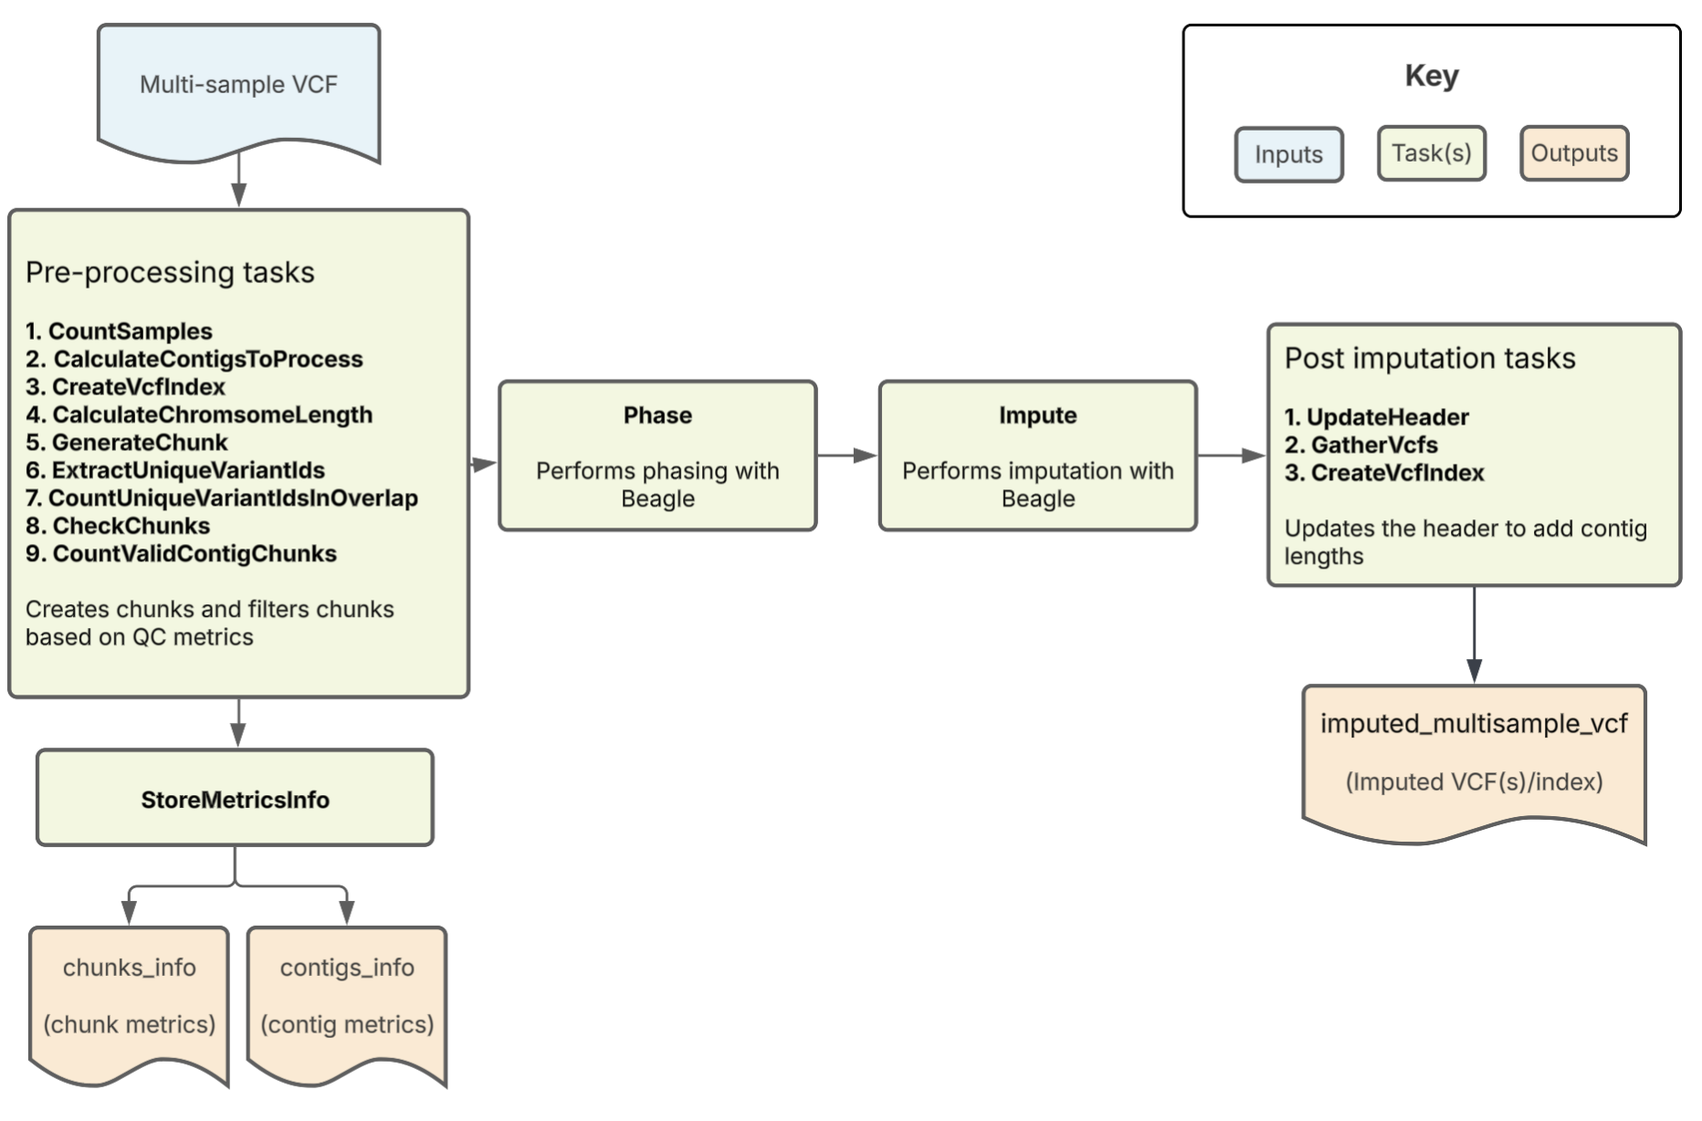
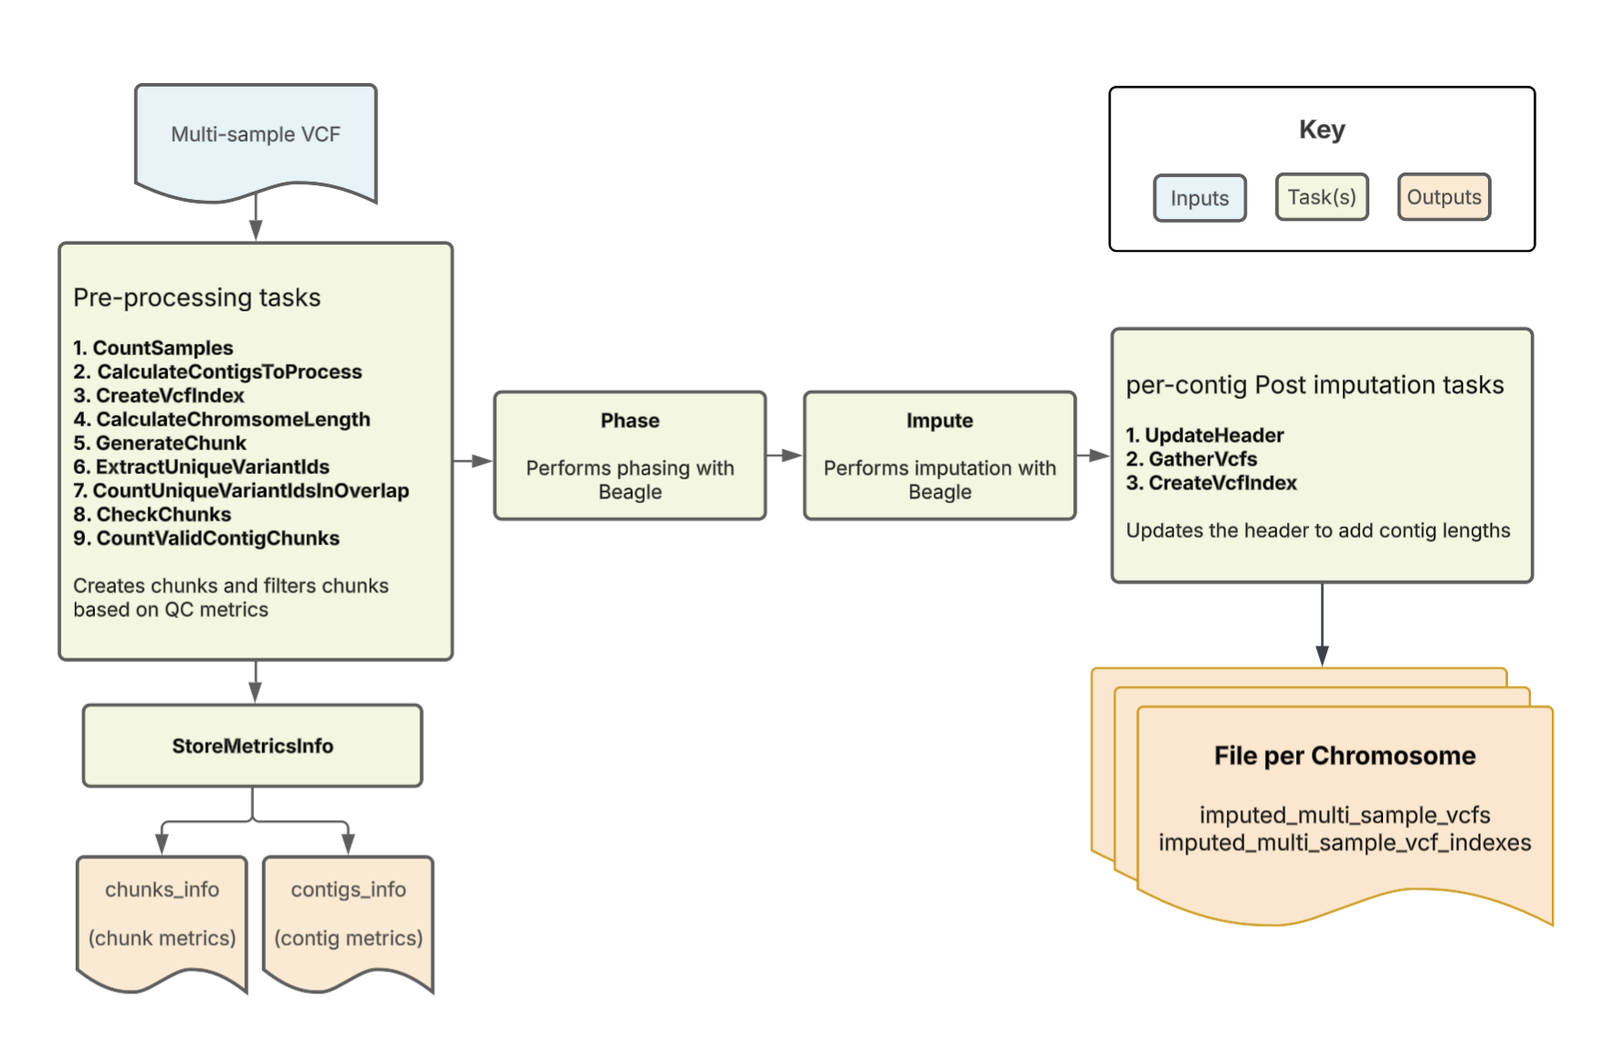
TSPS-1209 Glimpse2LowPassImputation returns single vcf per chr (Array[File]) (#1973)
* low pass imputation returns single vcf per chr

* note for future version update

* changelog and version update

* Updated pipeline_versions.txt with all pipeline version information

* fix variable names in changelog

* one more changelog update

* update docs

* make corresponding changes for array imputation (forgot to do earlier)

* rename final output files

* Updated pipeline_versions.txt with all pipeline version information

* Updated pipeline_versions.txt with all pipeline version information

* revert to single qc output

* update changelog and readme to reflect single file qc_metrics output

* update pipeline images

* Updated pipeline_versions.txt with all pipeline version information

---------

diff --git a/website/docs/Pipelines/Glimpse2LowPassImputation_Pipeline/README.md b/website/docs/Pipelines/Glimpse2LowPassImputation_Pipeline/README.md
@@ -10,14 +10,14 @@ slug: /Pipelines/Glimpse2LowpassImputation_Pipeline/README
 | See [changelog](https://github.com/broadinstitute/warp/blob/develop/pipelines/wdl/glimpse/low_pass_imputation/Glimpse2LowPassImputation.changelog.md) for version information. | See changelog | Terra Scientific Pipeline Services | Please [file an issue in WARP](https://github.com/broadinstitute/warp/issues). | |
 
 ## Introduction to the GLIMPSE2 Low-Pass Imputation pipeline
-The GLIMPSE2 Low-Pass Imputation pipeline imputes missing genotypes from a list of low-pass CRAM/CRAI files (or a sample manifest pointing to GCS file paths) using a large genomic reference panel. It uses GLIMPSE2 as the imputation tool. Overall, the pipeline splits samples into batches, performs variant calling and imputation on each batch across genomic chunks, and merges the results into a final multi-sample VCF. It outputs the imputed VCF along with key imputation metrics.
+The GLIMPSE2 Low-Pass Imputation pipeline imputes missing genotypes from a list of low-pass CRAM/CRAI files (or a sample manifest pointing to GCS file paths) using a large genomic reference panel. It uses GLIMPSE2 as the imputation tool. Overall, the pipeline splits samples into batches, performs variant calling and imputation on each batch across genomic chunks, and merges the results into a multi-sample VCF per contig. It outputs one imputed VCF per contig, along with key imputation metrics.
 
 ## GLIMPSE2 Low-Pass Imputation Summary
 
 The `Glimpse2LowPassImputation` workflow is a WDL-based pipeline for low-pass whole genome imputation using [GLIMPSE2](https://odelaneau.github.io/GLIMPSE/).  
 This top-level workflow is now a gateway that scales to large cohorts by splitting samples into batches, running a per-batch imputation subworkflow, then merging batch outputs back into cohort-level results.
 
-The workflow processes each requested contig independently, imputes each sample batch against reference-defined chunks, ligates chunk outputs per batch/contig, merges sample columns across batches, recomputes AF/INFO annotations, and gathers contig outputs into final genome-wide files.
+The workflow processes each requested contig independently, imputes each sample batch against reference-defined chunks, ligates chunk outputs per batch/contig, merges sample columns across batches, recomputes AF/INFO annotations, and returns contig-level file outputs.
 
 ![](pipeline.png)
 
@@ -34,7 +34,7 @@ The workflow processes each requested contig independently, imputes each sample 
 | Algorithms              | `bcftools` mpileup/call/norm/merge + GLIMPSE2 phase/ligate + post-merge re-annotation                              | Task commands in batch and task WDLs                                     |
 | Quality control         | Sample QC metrics and optional coverage-metrics aggregation                                                        | `CollectQCMetrics`, `CombineCoverageMetrics`                             |
 | Data input file format  | CRAM/CRAI arrays with sample IDs                                                                                   | Workflow input block                                                     |
-| Data output file format | Imputed VCFs, indexes, md5s, and QC/coverage metric tables                                                         | Workflow outputs                                                         |
+| Data output file format | Per-contig imputed VCFs, indexes, md5s, and QC/coverage metric tables                                              | Workflow outputs                                                         |
 | Containers              | GATK, GLIMPSE2, bcftools/samtools suite, Hail, Python, Ubuntu                                                      | Runtime blocks                                                           |
 | Resource optimization   | Parallelization by sample batch, contig, and reference shard                                                       | Workflow architecture                                                    |
 
@@ -78,31 +78,23 @@ The top-level workflow orchestrates batching, per-batch imputation, and cohort-l
 | `MergeContigVcfs` (`MergeSampleChunksVcfsWithPaste`) | Merge sample columns across batch VCFs for one contig                   | Array of batch VCFs for contig                                                                         | Creates full-cohort contig VCF with aligned site lists                                          |
 | `RecomputeAndAnnotate`                               | Recompute AF/INFO across merged cohort and write updated contig VCF     | Merged contig VCF + extracted annotations                                                              | Restores cohort-correct annotations after paste-based merge                                     |
 | `FilterVcfByInfo`                                    | Filter variants below the INFO score threshold (optional)               | Re-aanotated VCF; only runs when `info_filter_for_inclusion` is supplied                               | Removes low-quality imputed variants from the final VCF                                         |
-| `SelectContigVariants`                               | Create variants-only contig VCF                                         | Re-annotated contig VCF                                                                                | Removes homozygous-reference-only records                                                       |
-| `UpdateHeaderVariants`                               | Update variants-only VCF header with reference info                     | Filtered VCF or re-annotated VCF                                                                       | Updates VCF headers with reference dictionary information and optionally adds pipeline metadata |
-| `CreateContigHomRefVcf`                              | Create hom-ref-sites-only contig VCF                                    | Re-annotated contig VCF                                                                                | Keeps homozygous-reference-only sites                                                           |
-| `UpdateHeaderHomRefOnly`                             | Update hom ref sites only VCF header with reference info                | Filtered VCF or re-annotated VCF                                                                       | Updates VCF headers with reference dictionary information and optionally adds pipeline metadata |
+| `UpdateHeader`                                       | Update contig VCF header with reference info                            | Filtered VCF (if `info_filter_for_inclusion` supplied) or re-annotated contig VCF                      | Updates VCF headers with reference dictionary information and optionally adds pipeline metadata |
 | `MergeBatchCoverageMetrics`                          | Combine optional coverage metric files across batches                   | `RunBatch.coverage_metrics`                                                                            | Produces aggregated coverage table when metrics exist                                           |
-| `GatherVcfsNoIndex`                                  | Gather contig variant VCFs into genome-wide variant VCF                 | Variant-only contig VCFs                                                                               | Produces final genome-wide variant VCF                                                          |
-| `CreateVcfIndexAndMd5`                               | Index and checksum final variant VCF                                    | Filtered VCF (if `info_filter_for_inclusion` supplied) or gathered variant VCF                         | Creates `.tbi` and md5                                                                          |
-| `GatherVcfsNoIndexHomRefOnly`                        | Gather contig hom-ref-sites-only VCFs                                   | Hom-ref contig VCFs                                                                                    | Produces final genome-wide hom-ref-sites-only VCF                                               |
-| `CreateVcfIndexAndMd5HomRefOnly`                     | Index and checksum final hom-ref-sites-only VCF                         | Gathered hom-ref-sites-only VCF                                                                        | Creates `.tbi` and md5                                                                          |
-| `CollectQCMetrics`                                   | Compute sample QC metrics from final imputed variant VCF                | Filtered VCF (if `info_filter_for_inclusion` supplied) or gathered variant VCF                         | Generates sample-level QC report                                                                |
+| `CreateVcfIndexAndMd5`                               | Index and checksum contig VCF                                           | Header-updated contig VCF                                                                              | Creates `.tbi` and md5                                                                          |
+| `GatherContigVcfsForQcMetrics`                       | Gather all per-contig imputed VCFs into one all-chromosome VCF           | Header-updated contig VCFs                                                                              | Provides a single cohort-wide VCF for QC metric computation                                     |
+| `CollectQCMetrics`                                   | Compute sample QC metrics from the all-chromosome imputed VCF            | Gathered all-chromosome VCF                                                                             | Generates a single cohort-wide sample-level QC report                                           |
 
 ### Outputs
 
-Upon successful completion, the workflow emits final genome-wide imputed outputs, corresponding index and checksum files, and QC metrics. Coverage metrics are optional.
+Upon successful completion, the workflow emits final contig-level imputed outputs, corresponding index and checksum files, and QC metrics. Coverage metrics are optional.
 
-| Output                                 | Description                                                     |
-|----------------------------------------|-----------------------------------------------------------------|
-| `imputed_vcf`                          | Final imputed multi-sample variant VCF                          |
-| `imputed_vcf_index`                    | Index file for final imputed VCF                                |
-| `imputed_vcf_md5sum`                   | MD5 checksum for final imputed VCF                              |
-| `imputed_hom_ref_sites_only_vcf`       | Final sites-only VCF containing homozygous-reference-only sites |
-| `imputed_hom_ref_sites_only_vcf_index` | Index file for hom-ref-sites-only VCF                           |
-| `imputed_hom_ref_sites_only_vcf_md5`   | MD5 checksum for hom-ref-sites-only VCF                         |
-| `qc_metrics`                           | Sample-level QC metrics table                                   |
-| `coverage_metrics`                     | Optional combined coverage metrics table                        |
+| Output                    | Description                                                              |
+|---------------------------|--------------------------------------------------------------------------|
+| `imputed_vcfs`            | Array of per-contig imputed multi-sample VCFs                            |
+| `imputed_vcf_indexes`     | Index files for the per-contig imputed VCFs                              |
+| `imputed_vcf_md5sums`     | MD5 checksums for the per-contig imputed VCFs                            |
+| `qc_metrics`              | Sample-level QC metrics table computed across all contigs                |
+| `coverage_metrics`        | Optional combined coverage metrics table                                 |
 
 
 ## Glimpse2LowPassImputationBatch summary

diff --git a/website/docs/Pipelines/ImputationBeagle_Pipeline/README.md b/website/docs/Pipelines/ImputationBeagle_Pipeline/README.md
@@ -10,7 +10,7 @@ slug: /Pipelines/ImputationBeagle_Pipeline/README
 | See [changelog](https://github.com/broadinstitute/warp/blob/develop/pipelines/wdl/arrays/imputation_beagle/ImputationBeagle.changelog.md) for version information. | See changelog | Terra Scientific Pipeline Services | Please [file an issue in WARP](https://github.com/broadinstitute/warp/issues). | |
  
 ## Introduction to the Array Imputation pipeline
-The Array Imputation pipeline imputes missing genotypes from either a multi-sample VCF or an array of single-sample VCFs using a large genomic reference panel. It uses [Beagle](https://faculty.washington.edu/browning/beagle/beagle.html) as the imputation tool. Overall, the pipeline filters, phases, and performs imputation on a multi-sample VCF. It outputs the imputed VCF along with key imputation metrics.
+The Array Imputation pipeline imputes missing genotypes from either a multi-sample VCF or an array of single-sample VCFs using a large genomic reference panel. It uses [Beagle](https://faculty.washington.edu/browning/beagle/beagle.html) as the imputation tool. Overall, the pipeline filters, phases, and performs imputation on a multi-sample VCF. It outputs one imputed multi-sample VCF per contig, along with key imputation metrics.
  
 ![](pipeline.png)
 ## Set-up
@@ -87,12 +87,8 @@ The [Array Imputation workflow](https://github.com/broadinstitute/warp/blob/deve
 | ReannotateDR2AndAF                       | annotate                                                       | bcftools                           | Reannotate DR2 and AF for sample chunk merged vcf                                                                                                                                                                                                                                                                                 |
 | FilterVcfByDR2                           | Filter variants by DR2 threshold                               | imputed VCF, min_dr2_for_inclusion | Removes variants below provided min_dr2_for_inclusion value                                                                                                                                                                                                                                                                       |
 | UpdateHeader                             | UpdateVCFSequenceDictionary                                    | GATK                               | Updates the header of the imputed VCF; adds contig lengths                                                                                                                                                                                                                                                                        |
-| SelectVariantRecordsOnly                 | Create a VCF with only variant sites                           | imputed VCF                        | Generates a VCF that only has variant sites                                                                                                                                                                                                                                                                                       |
-| CreateHomRefSitesOnlyVcf                 | Create a VCF with only homozygous reference sites              | imputed VCF                        | Generates a VCF that only has homozygous reference sites                                                                                                                                                                                                                                                                          |
-| GatherVcfsNoIndex                        | Combine all chromosome chunks, variants only                   | all processed chunks               | Creates final output VCF                                                                                                                                                                                                                                                                                                          |
-| IndexMergedSampleChunksVcfs              | Create an index for imputed output                             | final output VCF                   | Indexes are useful for downstream processing                                                                                                                                                                                                                                                                                      |
-| GatherHomRefSitesOnlyVcfs                | Combine all chromosome chunks, homozygous reference sites only | all processed chunks               | Creates sites only homozygous reference output VCF                                                                                                                                                                                                                                                                                |
-| CreateIndexForGatheredVcfHomRefSitesOnly | Create an index for homozygous reference sites only VCF        | final output VCF                   | Indexes are useful for downstream processing                                                                                                                                                                                                                                                                                      |
+| GatherVcfsNoIndex (GatherVcfsNoIndexContig) | Combine all chunks for a contig                             | bcftools                           | Creates one output VCF per contig                                                                                                                                                                                                                                                                                                 |
+| CreateVcfIndex (CreateIndexForGatheredVcfContig) | index                                                     | bcftools                           | Creates an index for the gathered per-contig VCF                                                                                                                                                                                                                                                                                  |
 
 
 ## Workflow outputs
@@ -101,10 +97,8 @@ The table below summarizes the workflow outputs. If running the workflow on Crom
  
 | Output name                          | Description                                                                                                                                                                                                                  | Type  |
 |--------------------------------------|------------------------------------------------------------------------------------------------------------------------------------------------------------------------------------------------------------------------------|-------|
-| imputed_multi_sample_vcf             | Final imputed multi-sample WGS VCF file, only contains variant records                                                                                                                                                       |
-| imputed_multisample_vcf_index        | Index file for VCF from the CreateIndexForGatheredVcf task.                                                                                                                                                                  | Index |
-| imputed_hom_ref_sites_only_vcf       | Sites only VCF that contains sites where all samples are homozygous reference                                                                                                                                                |
-| imputed_hom_ref_sites_only_vcf_index | Index file for hom ref sites only VCF                                                                                                                                                                                        |
+| imputed_multi_sample_vcfs            | Array of final imputed multi-sample VCFs, one per contig                                                                                                                                                                     | Array[File] |
+| imputed_multi_sample_vcf_indexes     | Index files for each per-contig imputed VCF                                                                                                                                                                                  | Array[File] |
 | chunks_info                          | TSV from StoreMetricsInfo task; contains the chunk intervals, variant counts per chunk (filtered input and overlap with reference panel), and whether each chunk was successfully imputed.                                   | TSV   |
 | contigs_info                         | TSV from StoreMetricsInfo task; contains contig-level (chromosome-level) aggregated metrics including total variant counts in the raw input, filtered input, and overlap with reference panel for each processed chromosome. | TSV   |
 

diff --git a/pipelines/wdl/glimpse/low_pass_imputation/Glimpse2LowPassImputation.changelog.md b/pipelines/wdl/glimpse/low_pass_imputation/Glimpse2LowPassImputation.changelog.md
@@ -1,3 +1,10 @@
+# 2.0.0
+2026-09-28 (Date of Last Commit)
+
+### Breaking changes
+* Outputs `imputed_vcf`, `imputed_vcf_index`, and `imputed_vcf_md5sum` have been changed from `File` type to `Array[File]` type, and renamed to `imputed_vcfs`, `imputed_vcf_indexes`, and `imputed_vcf_md5sums`. The VCF outputs now contain all imputed variants and homozygous reference sites per chromosome/contig.
+* The output `imputed_hom_ref_sites_only_vcf` and its index have been removed, as these data (imputed homozygous reference sites) are now included in the `imputed_vcfs` output.
+
 # 1.1.1
 2026-09-23 (Date of Last Commit)
 
